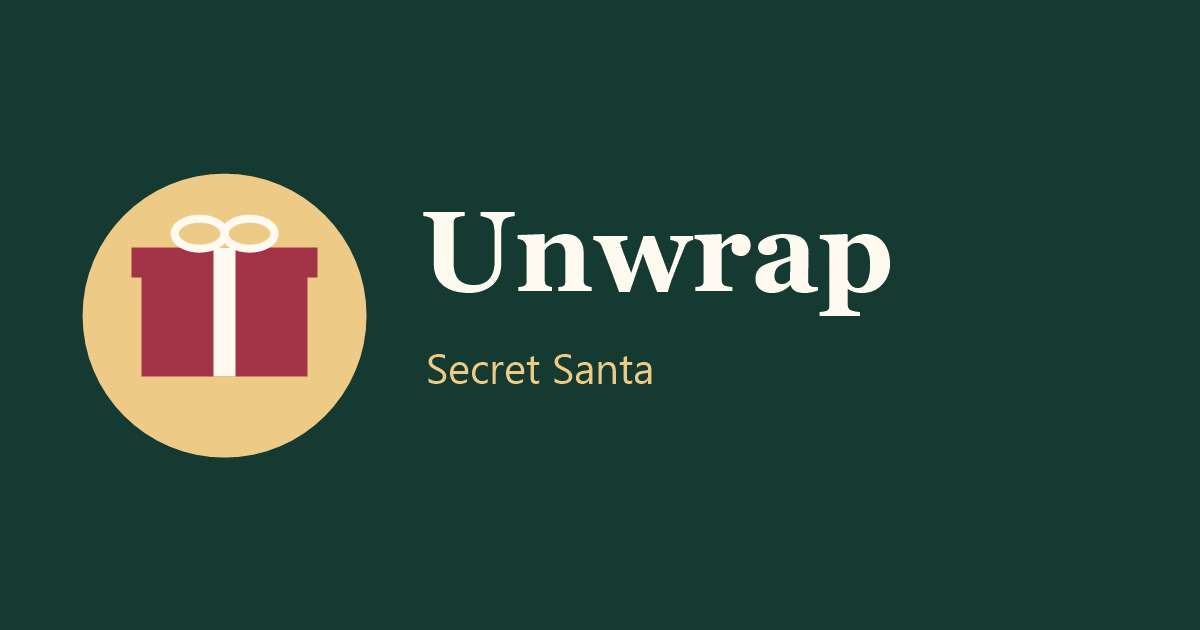
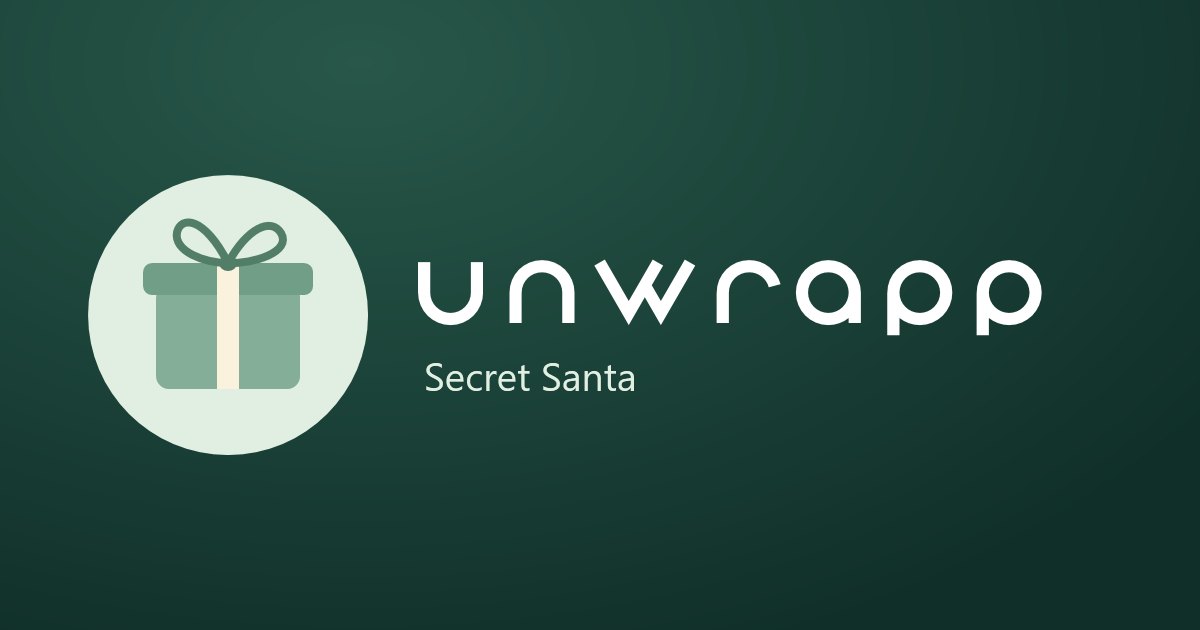
Refresh themed share preview artwork

diff --git a/valentines.html b/valentines.html
@@ -9,13 +9,13 @@
   <title>Unwrapp · Valentine’s</title>
   <meta name="description" content="Open your Valentine’s invitation to find out who you’re shopping for.">
   <meta property="og:type" content="website">
-  <meta property="og:title" content="❤ Unwrap Your Valentine’s Invitation">
+  <meta property="og:title" content="❤ Your Unwrapp Valentine Invitation">
   <meta property="og:description" content="Your Valentine’s assignment is ready. Tap to open your invitation!">
   <meta property="og:url" content="https://paco-jasso.github.io/unwrap-web/valentines.html">
-  <meta property="og:image" content="https://paco-jasso.github.io/unwrap-web/unwrap-valentines-preview.png">
+  <meta property="og:image" content="https://paco-jasso.github.io/unwrap-web/unwrap-valentines-preview.png?v=2">
   <meta property="og:image:width" content="1200">
   <meta property="og:image:height" content="630">
-  <meta property="og:image:alt" content="A pink heart and the words Unwrapp and Valentine’s">
+  <meta property="og:image:alt" content="A soft pink gift icon and the words Unwrapp and Valentine’s">
   <link rel="stylesheet" href="./unwrap.css">
   <script src="./unwrap.js" defer></script>
 </head>

diff --git a/christmas.html b/christmas.html
@@ -9,13 +9,13 @@
   <title>Unwrapp · Secret Santa</title>
   <meta name="description" content="Open your invitation to find out who you're shopping for.">
   <meta property="og:type" content="website">
-  <meta property="og:title" content="🎄 Unwrap Your Secret Santa">
+  <meta property="og:title" content="🎄 Your Unwrapp Secret Santa Invitation">
   <meta property="og:description" content="Your Secret Santa assignment is ready. Tap to open your invitation!">
   <meta property="og:url" content="https://paco-jasso.github.io/unwrap-web/christmas.html">
-  <meta property="og:image" content="https://paco-jasso.github.io/unwrap-web/unwrap-christmas-preview.png">
+  <meta property="og:image" content="https://paco-jasso.github.io/unwrap-web/unwrap-christmas-preview.png?v=2">
   <meta property="og:image:width" content="1200">
   <meta property="og:image:height" content="630">
-  <meta property="og:image:alt" content="A wrapped gift and the words Unwrap and Secret Santa">
+  <meta property="og:image:alt" content="A soft green gift icon and the words Unwrapp and Secret Santa">
   <link rel="stylesheet" href="./unwrap.css">
   <script src="./unwrap.js" defer></script>
 </head>

diff --git a/index.html b/index.html
@@ -9,13 +9,13 @@
   <title>Unwrapp</title>
   <meta name="description" content="Open your invitation to reveal what is inside.">
   <meta property="og:type" content="website">
-  <meta property="og:title" content="🎁 Unwrap Your Invitation">
+  <meta property="og:title" content="🎁 Your Unwrapp Invitation">
   <meta property="og:description" content="Your surprise is ready. Tap to open your invitation!">
   <meta property="og:url" content="https://paco-jasso.github.io/unwrap-web/">
-  <meta property="og:image" content="https://paco-jasso.github.io/unwrap-web/unwrap-preview.png">
+  <meta property="og:image" content="https://paco-jasso.github.io/unwrap-web/unwrap-preview.png?v=2">
   <meta property="og:image:width" content="1200">
   <meta property="og:image:height" content="630">
-  <meta property="og:image:alt" content="A wrapped gift and the words Unwrap and Your invitation is ready">
+  <meta property="og:image:alt" content="A soft blue gift icon and the words Unwrapp and Your invitation is ready">
   <link rel="stylesheet" href="./unwrap.css">
   <script src="./unwrap.js" defer></script>
 </head>
